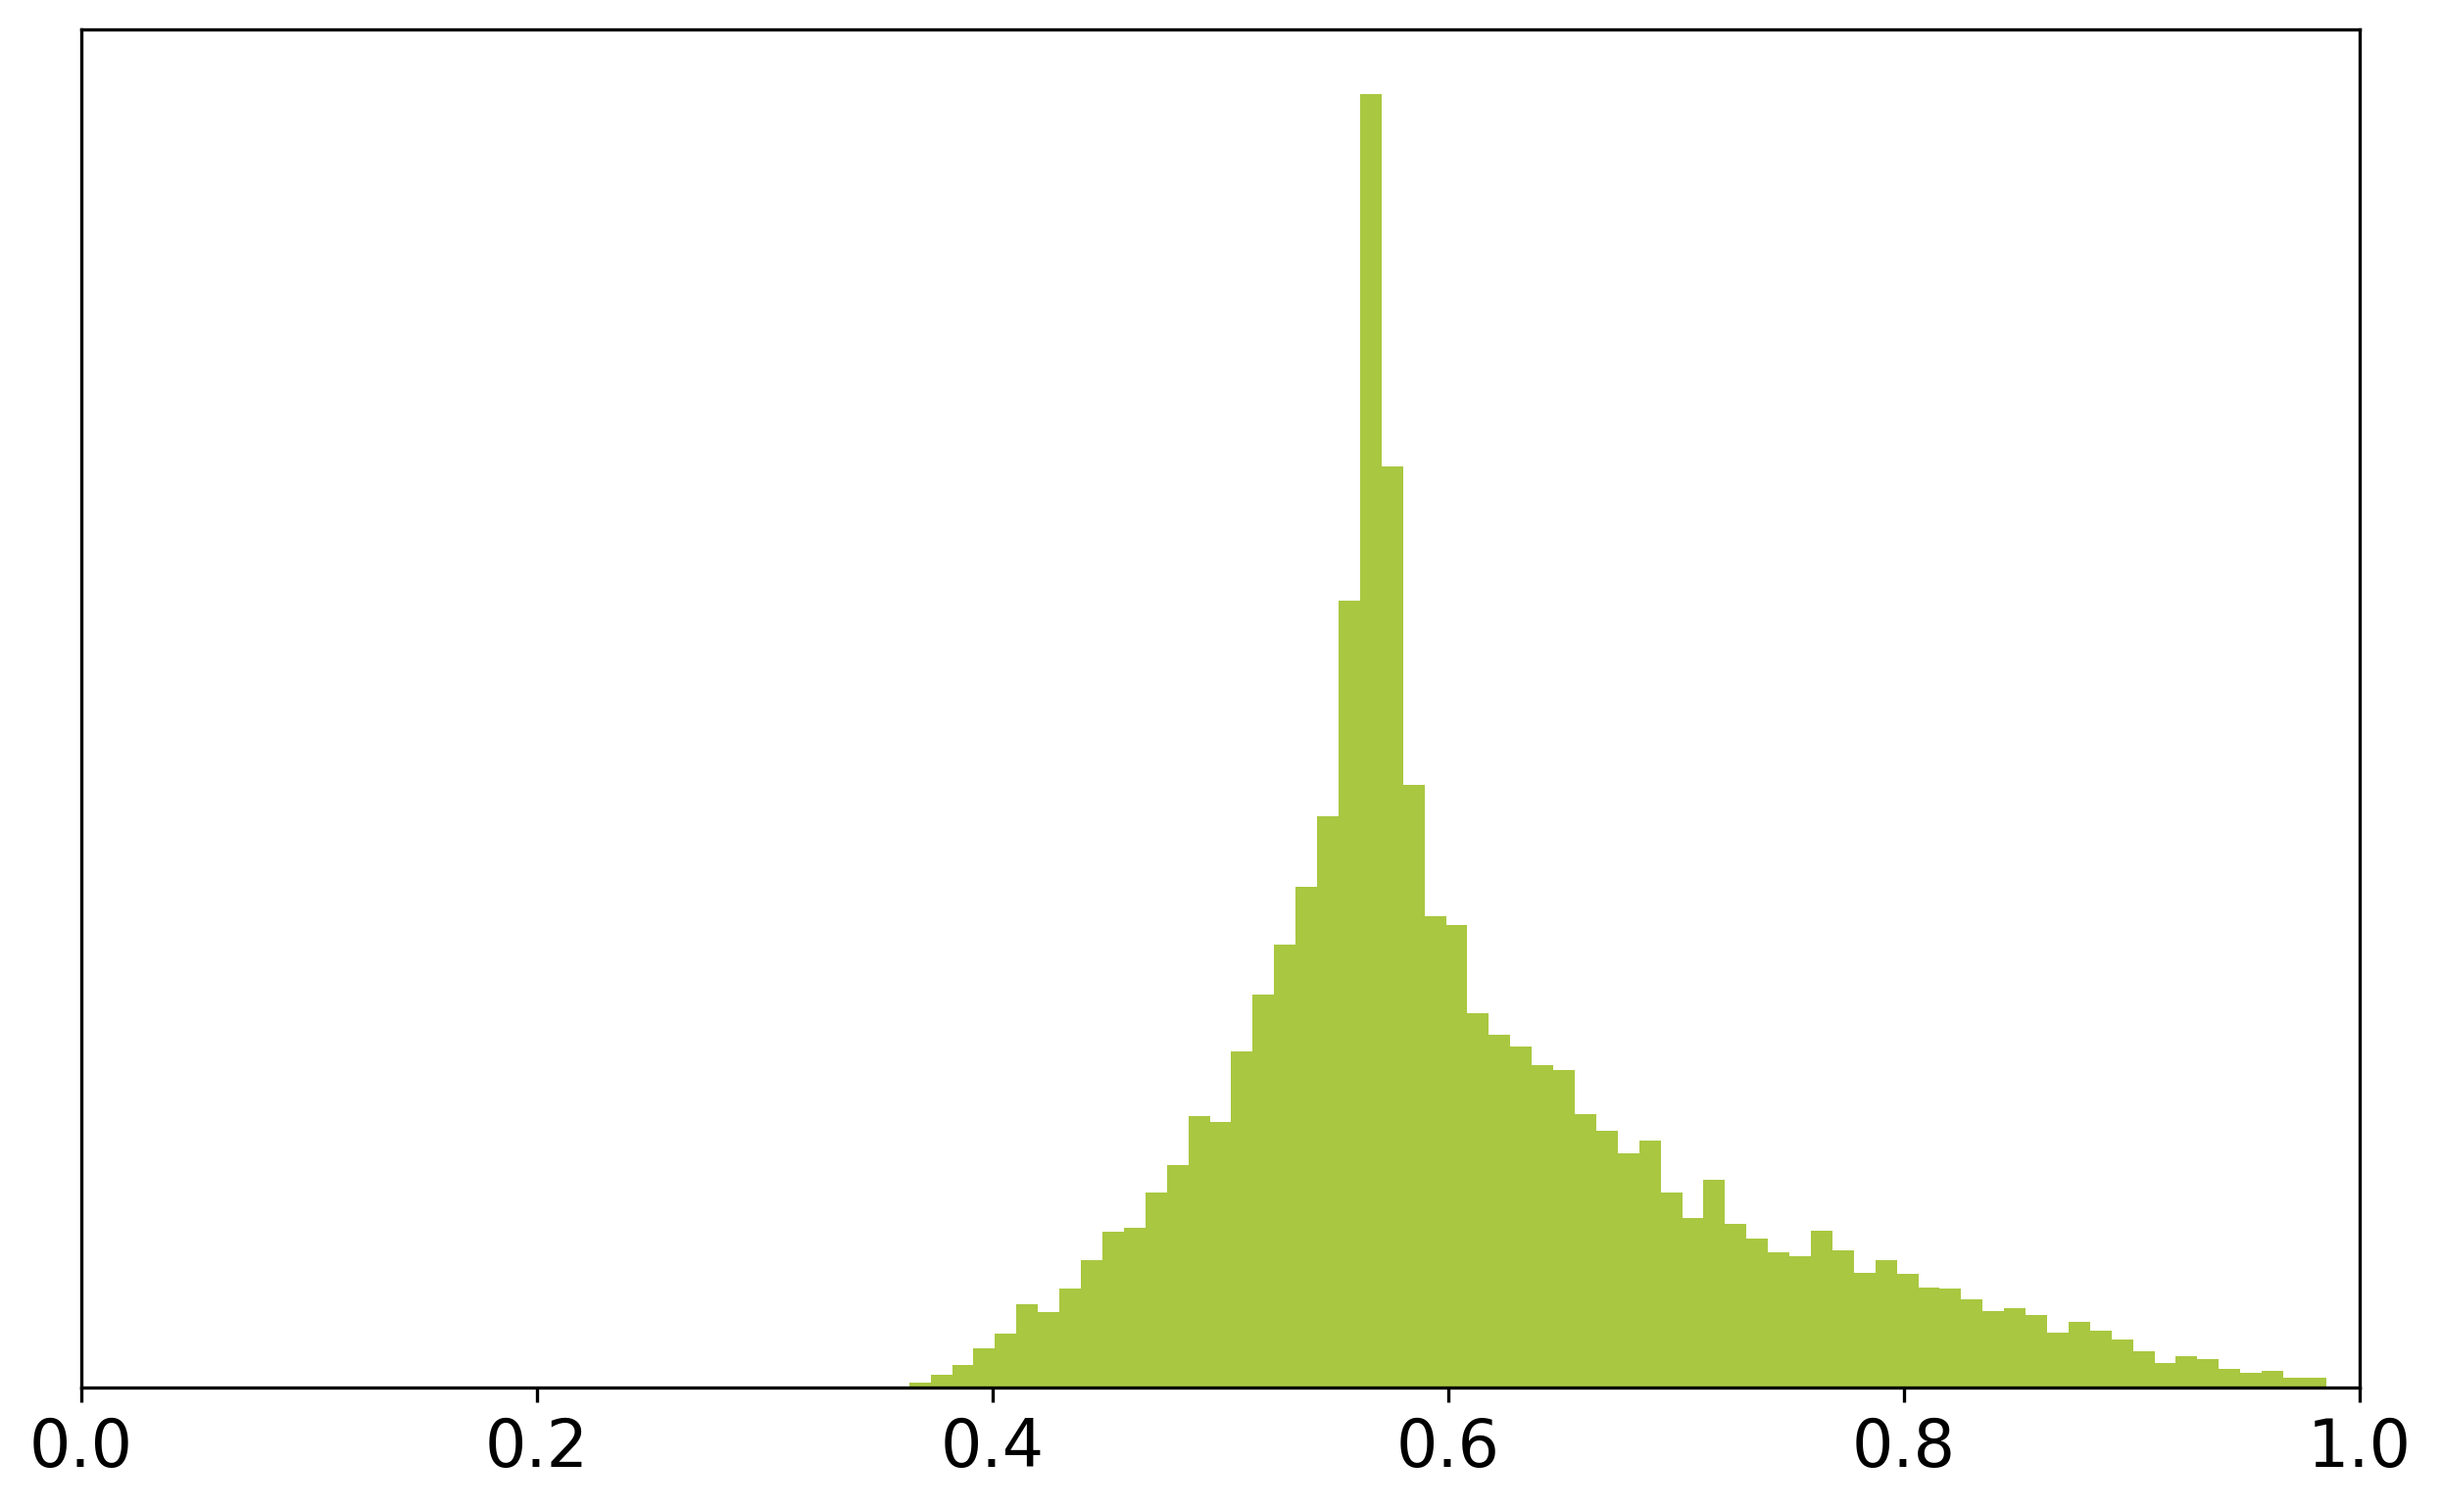
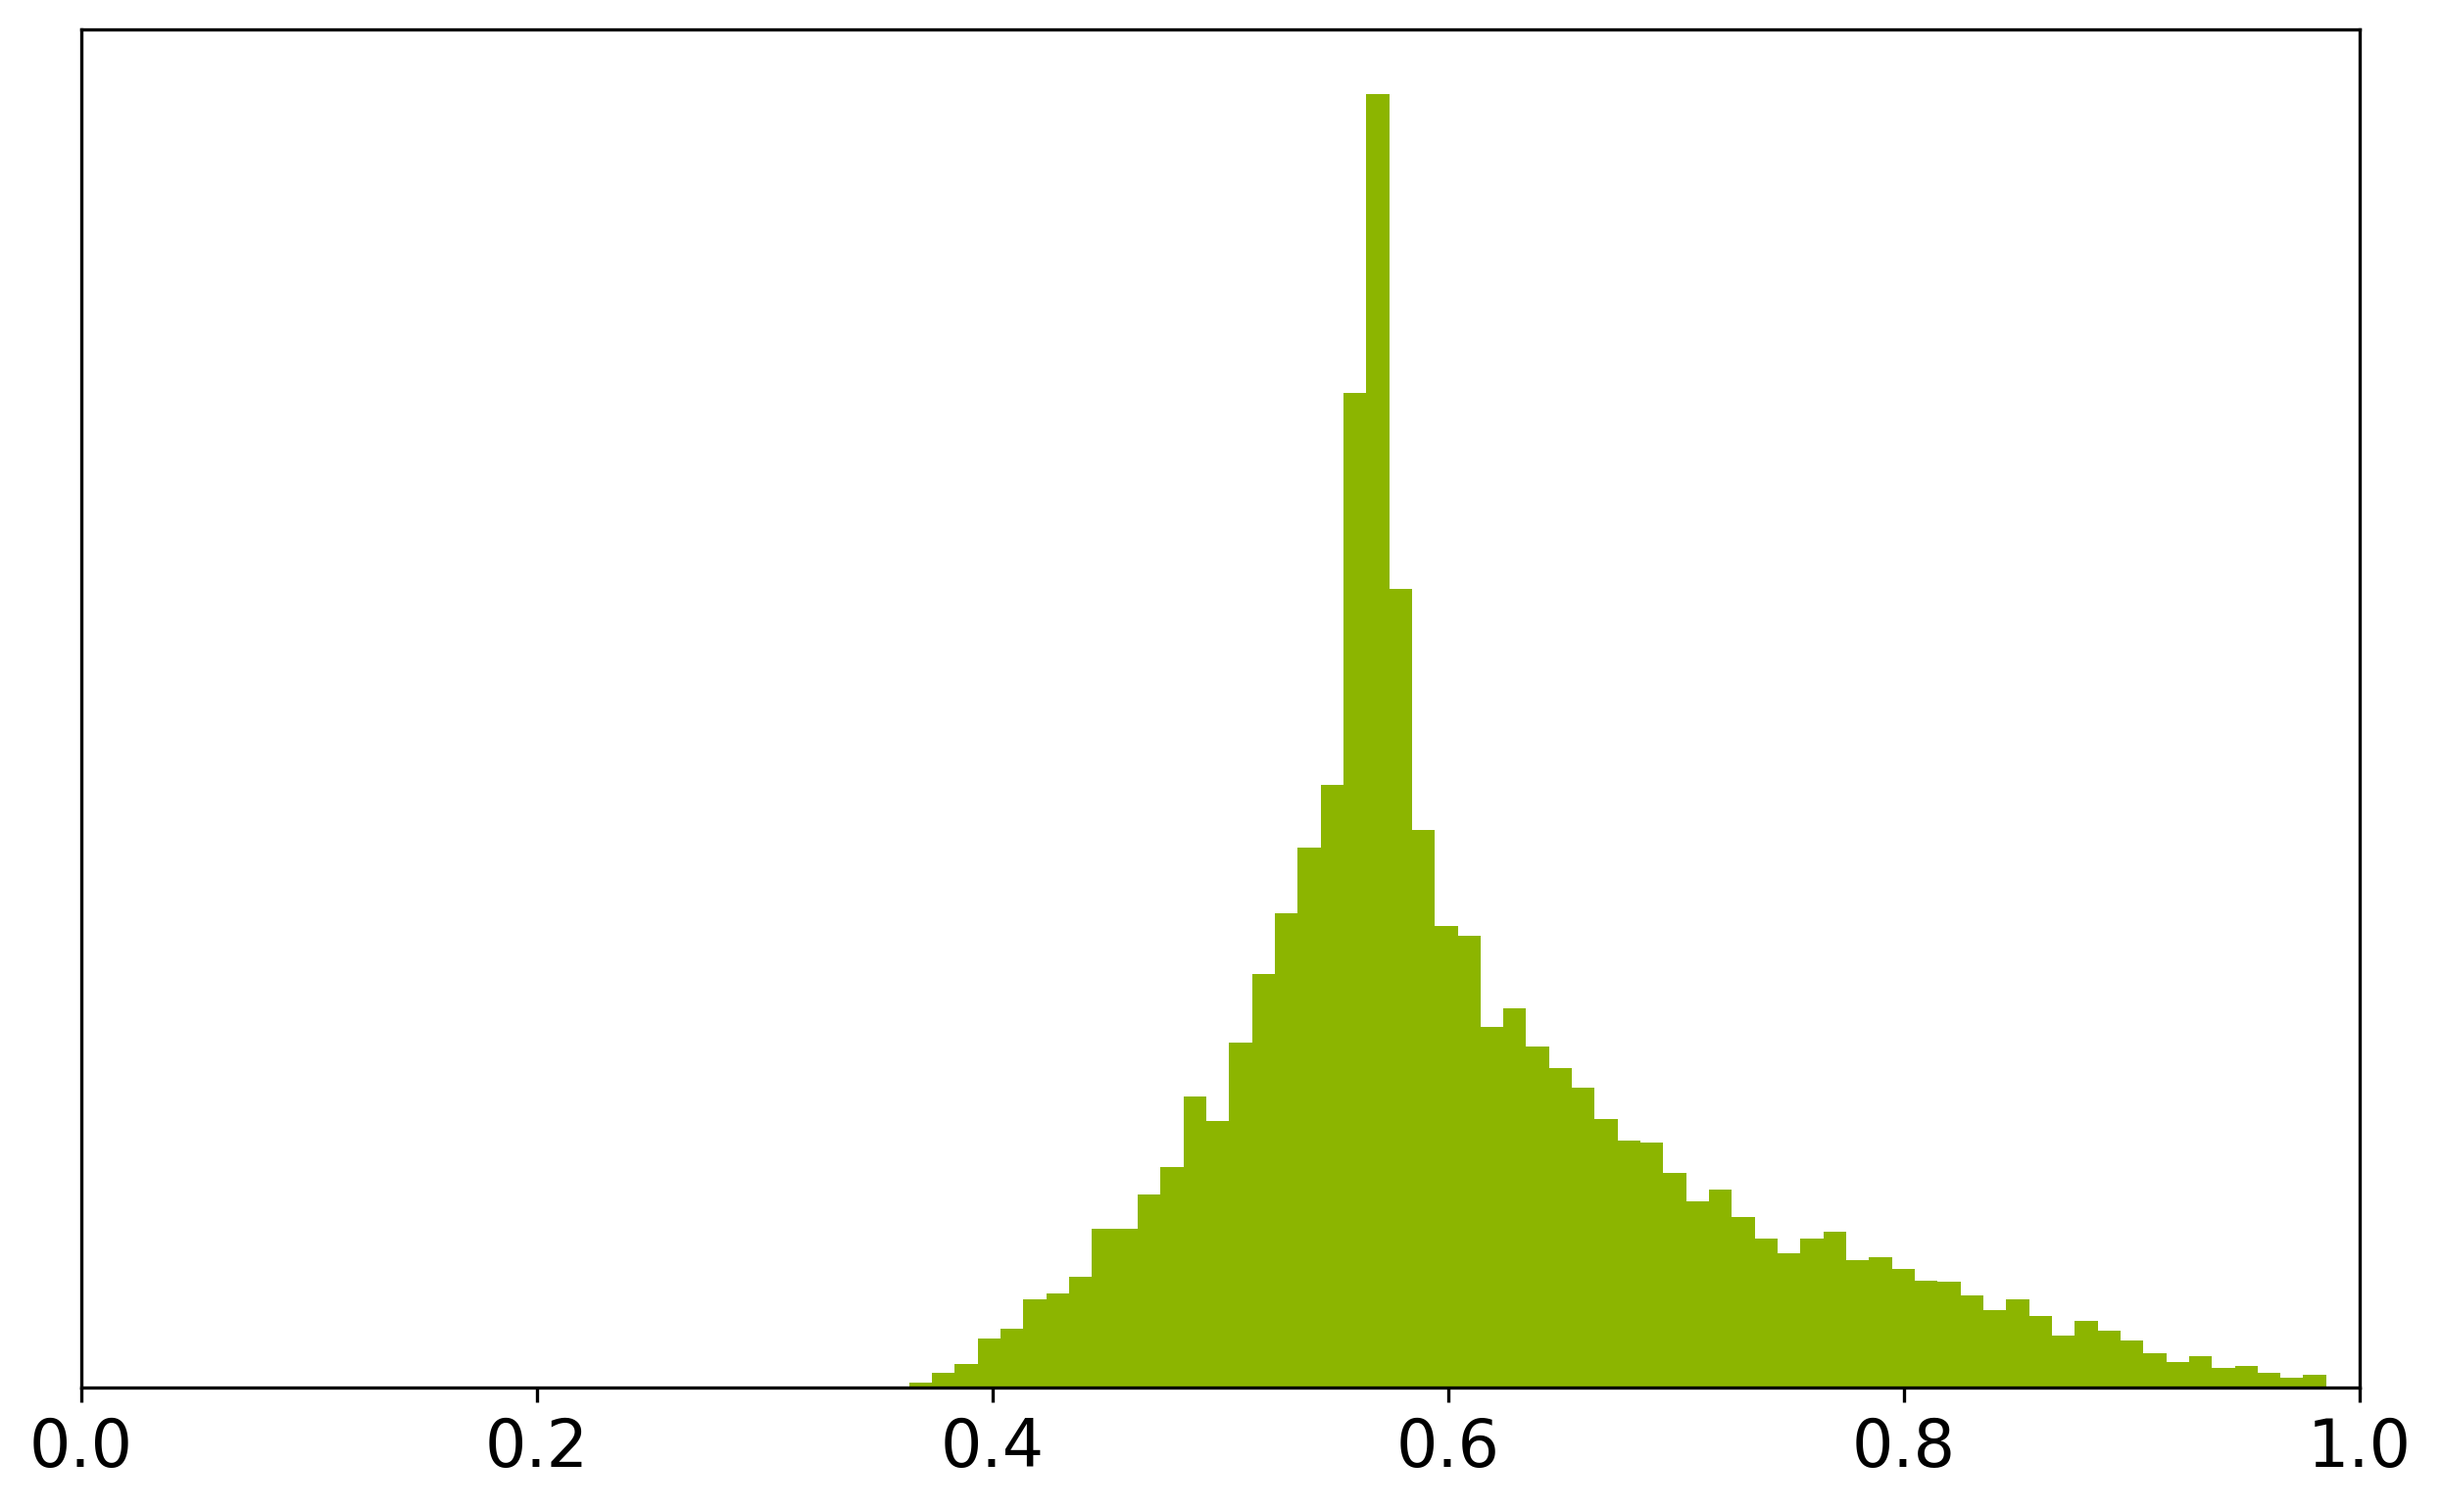
Make M histograms

Changed region(s): [[0.3709, 0.0623, 0.9582, 0.9345]]

diff --git a/pipelines/bradley-terry/make_plots/M_stat_histograms.py b/pipelines/bradley-terry/make_plots/M_stat_histograms.py
@@ -37,17 +37,25 @@ def make_scottish_M_histogram(rule):
         data = json.load(f)
 
     m_values = []
+    total_count = 0
     for n_cands, val_dict in data.items():
         for file, rho_um in val_dict.items():
+            total_count += 1
             if rho_um < 1.0:
                 m_values.append(inverse_interp(rho_um))
+
+    print(
+        f"Rule: {rule}, Number of instances of M < 1/2: {len(m_values)} / {total_count}"
+    )
     _, ax = plt.subplots(figsize=(10, 6))
     sns.histplot(
         m_values,
         stat="probability",
         ax=ax,
+        alpha=1,
         color=rule_color_map[rule],
         edgecolor=None,
+        binwidth=0.005,
     )
 
     ax.set_ylabel("")
@@ -62,11 +70,13 @@ def make_scottish_M_histogram(rule):
     plt.close()
 
 
-def make_bt_M_histograms(rule):
+def make_bt_M_histograms(rule, bprop_values=None):
     if rule == "random":
         return
 
-    for bprop in [0.5, 0.6, 0.7, 0.8, 0.9]:
+    if bprop_values is None:
+        bprop_values = [0.5, 0.6, 0.7, 0.8, 0.9]
+    for bprop in bprop_values:
         all_files = glob(
             f"{top_dir}/stats/bt_2_bloc_profile_stats/3_seats/sigma_UM/**/{rule}/"
             f"METRIC_sigma_UM__VARIANT_worst_case__INTERP_asin__*BPROP_{bprop}*TIEBREAK_lex.json"
@@ -74,15 +84,20 @@ def make_bt_M_histograms(rule):
 
         m_values = []
         asin_data = []
+        total_count = 0
         for file in all_files:
             with open(file, "r") as f:
                 data = json.load(f)
 
             for rho_um in data:
+                total_count += 1
                 if rho_um < 1.0:
                     asin_data.append(rho_um)
                     m_values.append(inverse_interp(rho_um))
 
+        print(
+            f"BPROP: {bprop}, Rule: {rule}, Number of instances of M < 1/2: {len(m_values)} / {total_count}"
+        )
         output_file = bt_plots_dir / f"M_{rule}__BPROP_{bprop}_bt_histogram.png"
         _, ax = plt.subplots(figsize=(10, 6))
         sns.histplot(
@@ -91,6 +106,8 @@ def make_bt_M_histograms(rule):
             ax=ax,
             color=rule_color_map[rule],
             edgecolor=None,
+            binwidth=0.005,
+            alpha=1,
         )
 
         ax.set_ylabel("")
@@ -112,6 +129,8 @@ def make_bt_M_histograms(rule):
             ax=ax,
             color=rule_color_map[rule],
             edgecolor=None,
+            binwidth=0.01,
+            alpha=1,
         )
 
         ax.set_ylabel("")
@@ -133,6 +152,8 @@ def make_bt_M_histograms(rule):
             ax=ax,
             color=rule_color_map[rule],
             edgecolor=None,
+            binwidth=0.01,
+            alpha=1,
         )
 
         ax.set_ylabel("")
@@ -147,7 +168,22 @@ def make_bt_M_histograms(rule):
         plt.close()
 
 
+def make_legend():
+    _, ax = plt.subplots(figsize=(6, 4))
+    for rule, color in rule_color_map.items():
+        ax.plot([], [], color=color, label=rule, linewidth=10)
+    ax.legend()
+    # plt.savefig(
+    #     bt_plots_dir / "legend.png",
+    #     bbox_inches="tight",
+    #     dpi=300,
+    # )
+    plt.show()
+    plt.close()
+
+
 if __name__ == "__main__":
     for rule in rule_color_map:
-        make_scottish_M_histogram(rule)
-        make_bt_M_histograms(rule)
+        # make_scottish_M_histogram(rule)
+        make_bt_M_histograms(rule, [0.7])
+        # make_legend()
